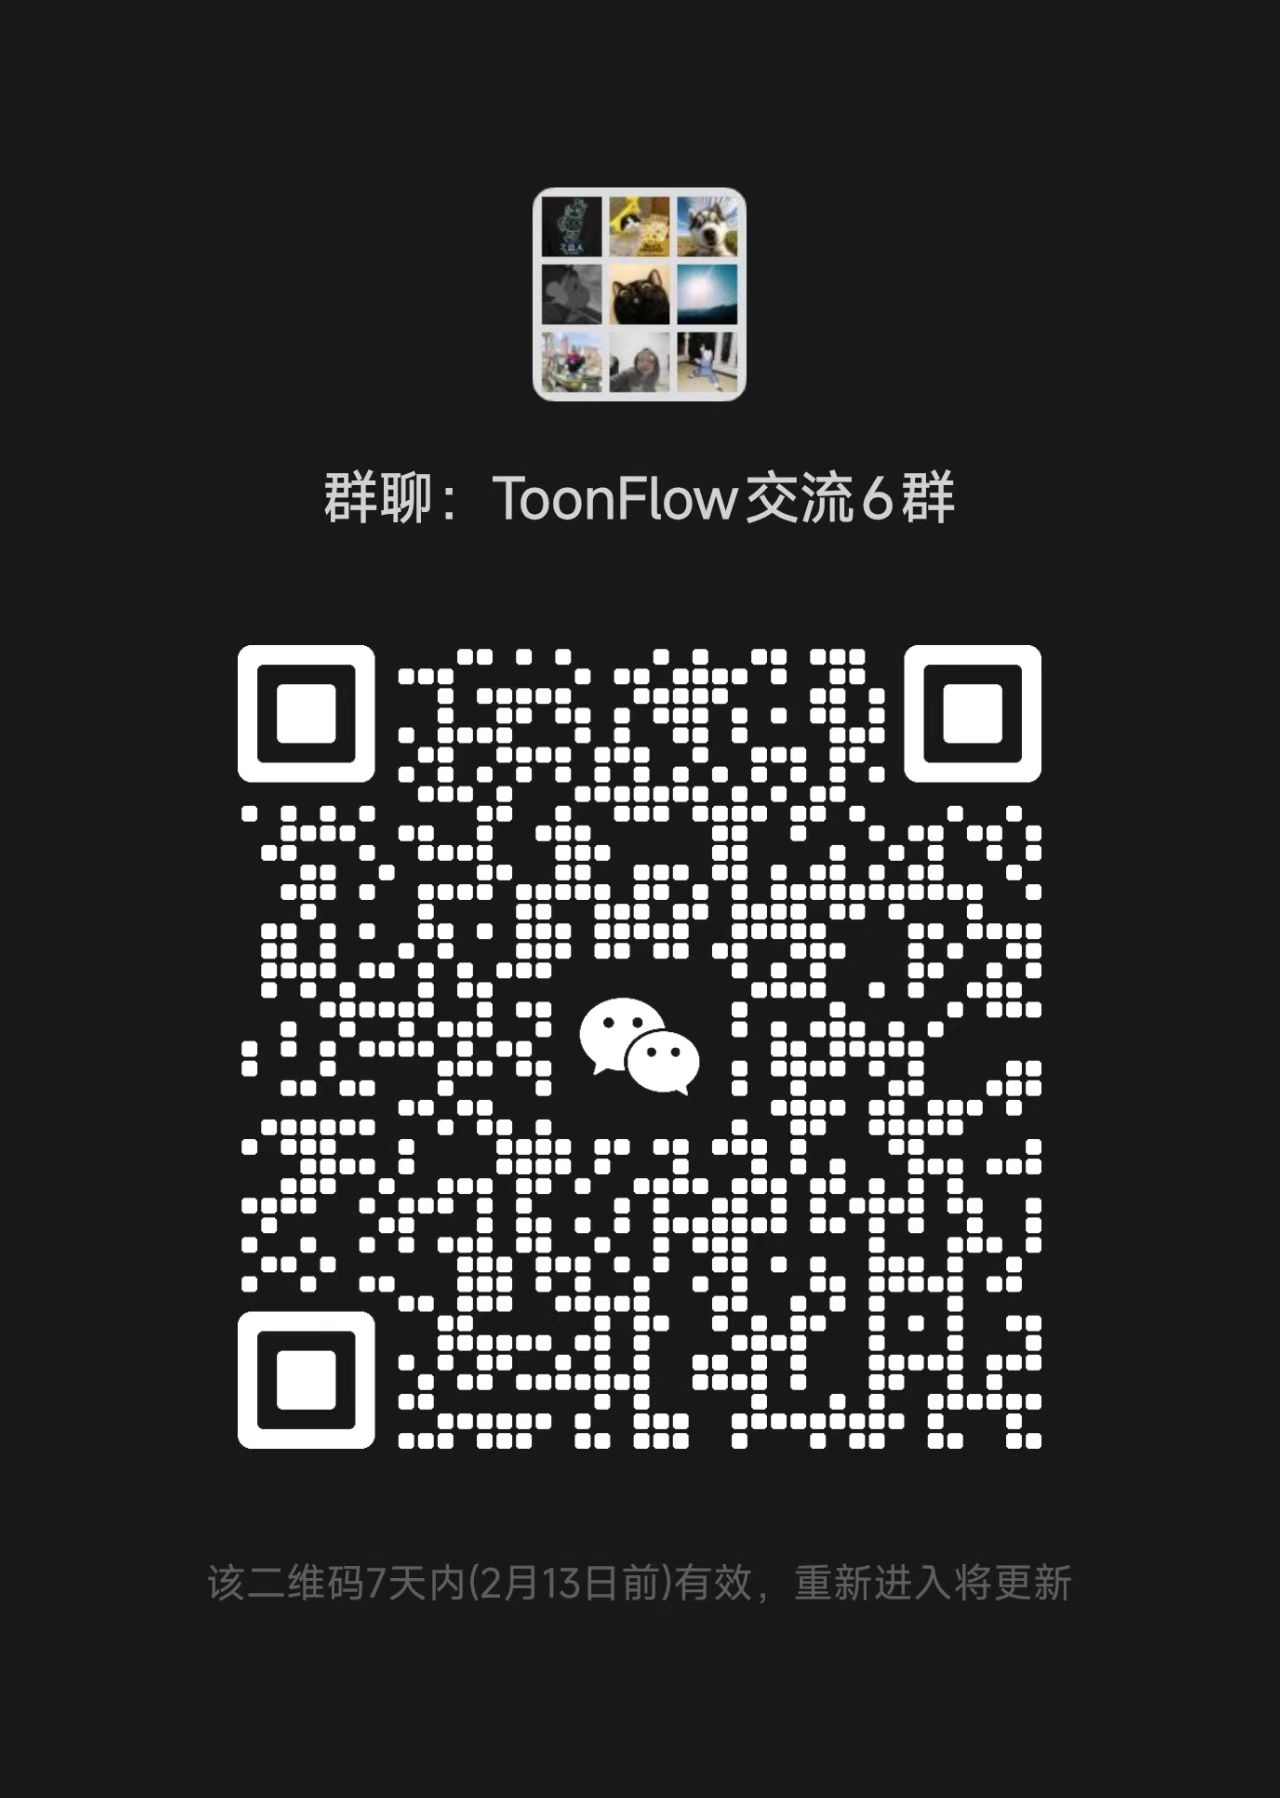
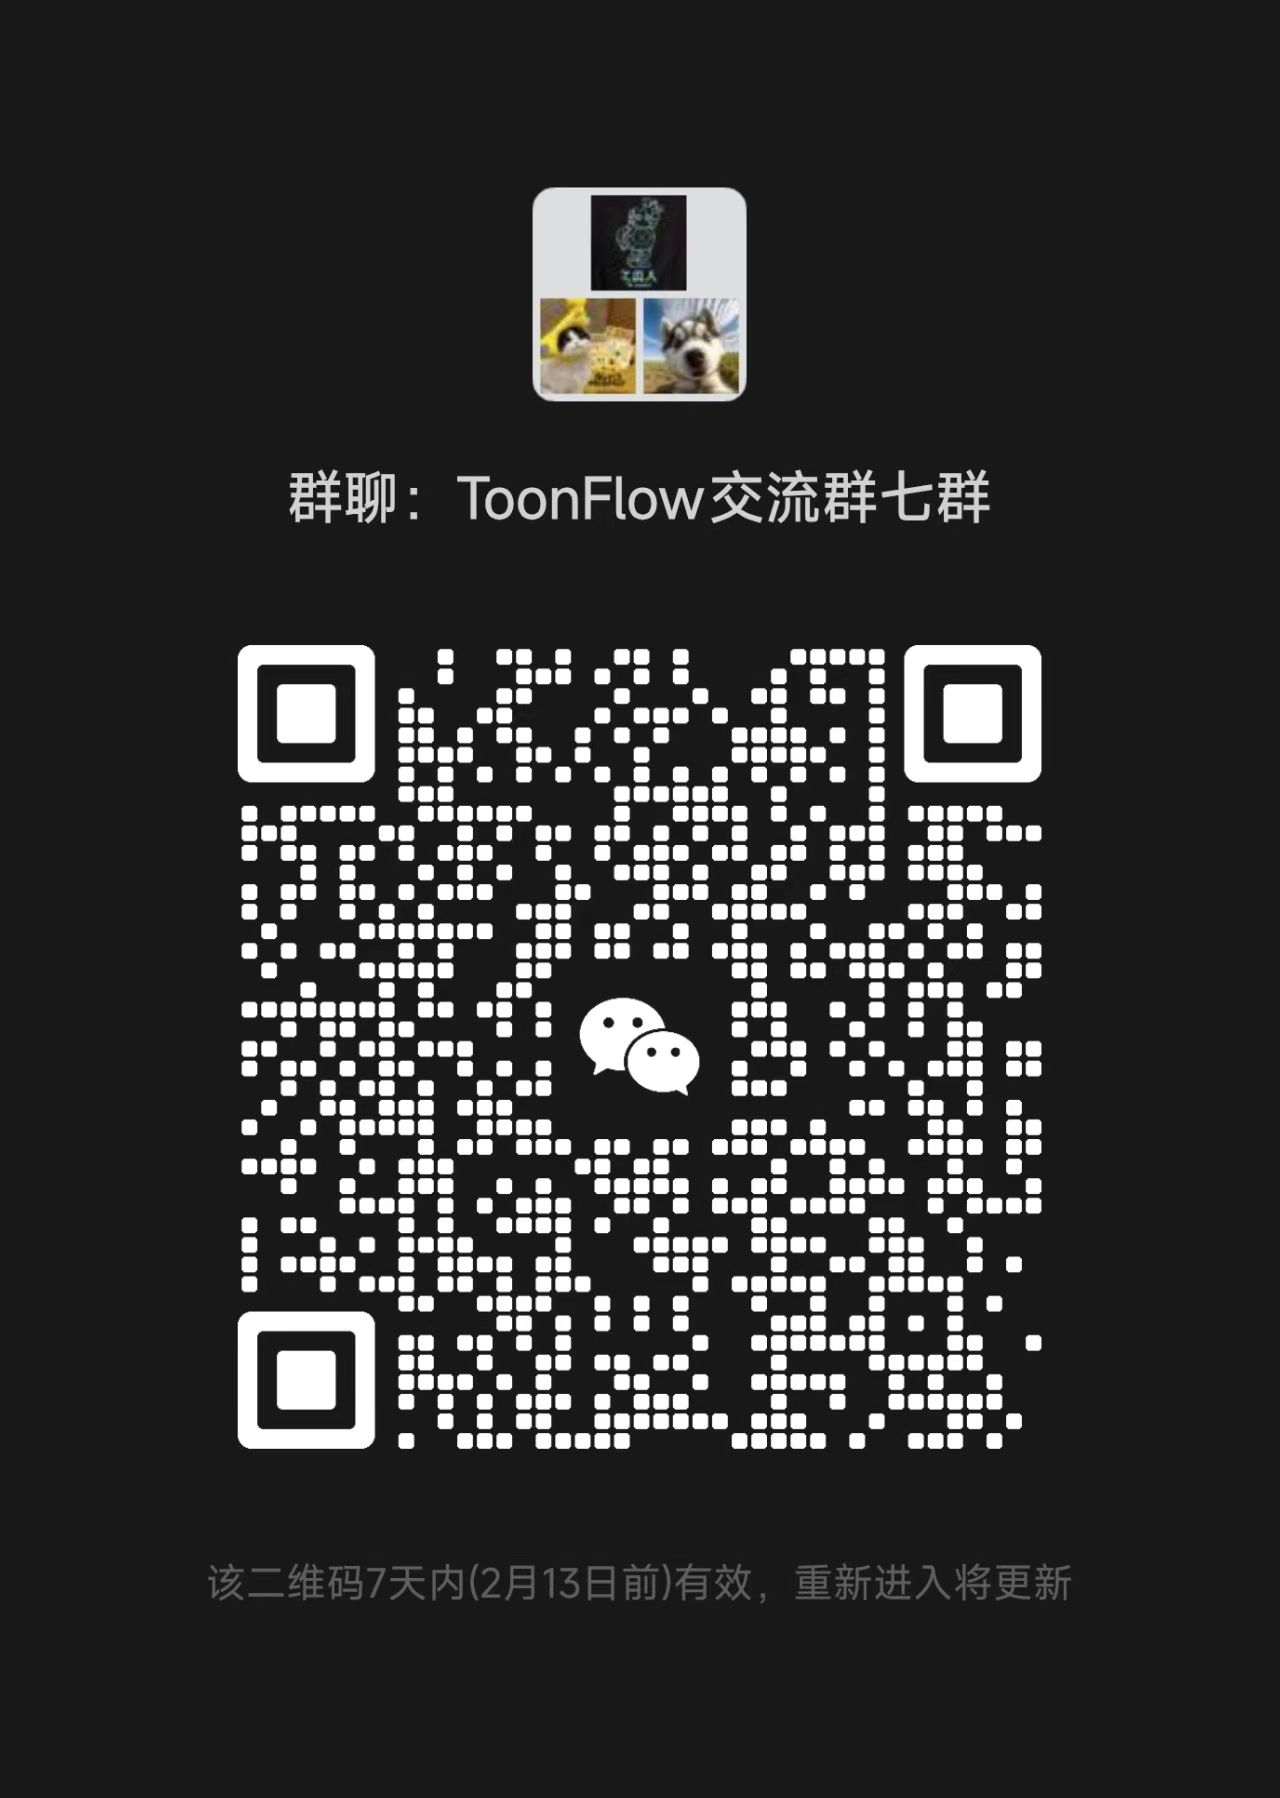
更新群二维码+1

Changed region(s): [[0.1875, 0.3426, 0.8125, 0.8098], [0.2188, 0.2492, 0.7812, 0.3115], [0.4062, 0.0934, 0.5938, 0.218]]

diff --git a/README.md b/README.md
@@ -377,9 +377,11 @@ pm2 monit             # 监控面板
 
 ~~交流群 5~~
 
-交流群 6:
+~~交流群 6~~
 
-<img src="./docs/chat6QR.jpg?r=1" alt="Toonflow Logo" height="400"/>
+交流群 7:
+
+<img src="./docs/chat6QR.jpg?r=2" alt="Toonflow Logo" height="400"/>
 <p>使用微信扫码添加，二维码过期可提交 Issues 提醒更新</p>
 
 ---
